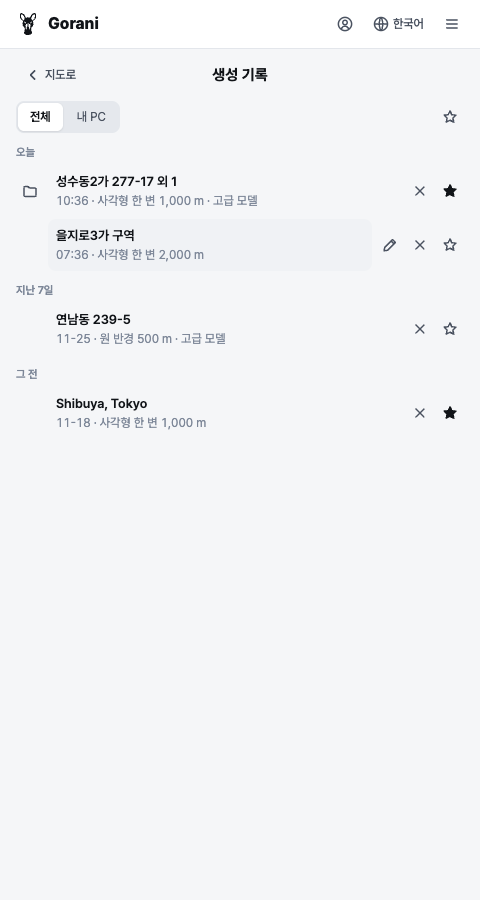
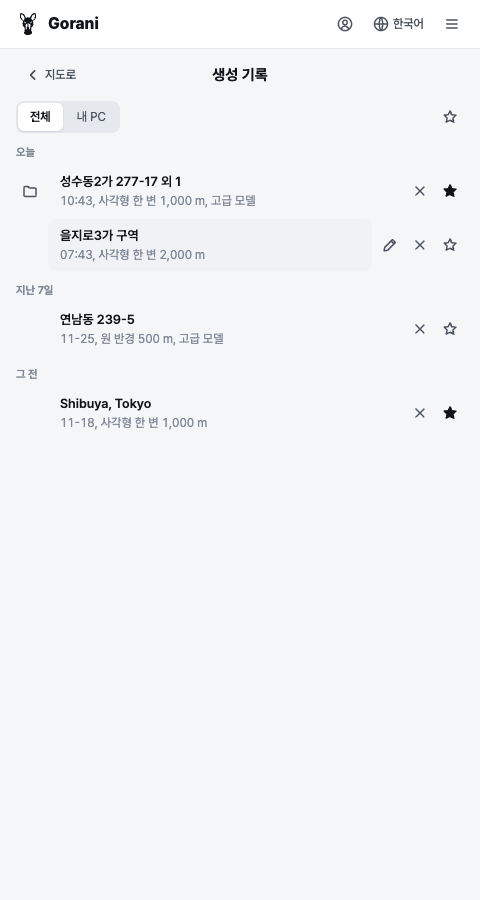
생성 기록: 설명 줄 가운뎃점 → 쉼표, 이름 왼쪽 여백 12 px(마우스 올림 회색 박스) · 지도 트레이 머리 '최근 기록', 링크 '생성 기록 ›'(머리 글씨와 같은 크기·색)

diff --git a/scripts/site_ui.html b/scripts/site_ui.html
@@ -211,7 +211,7 @@ body[data-screen="history"] section[data-screen="history"] { display: block; ove
 .hist-filters { display: flex; justify-content: space-between; align-items: center; gap: 4px; }   /* [전체 | 내 PC] 왼쪽, ★ 오른쪽 — 줄의 별과 한 세로줄 */
 .hist-star-filter[aria-pressed="true"] { color: var(--ink); background: var(--press); }
 .hist-star-filter[aria-pressed="true"] .ico { fill: currentColor; }
-.hist-open { display: block; width: 100%; min-height: 52px; padding: 6px 8px; border: 0; border-radius: 8px; background: none; text-align: left; color: var(--ink); }
+.hist-open { display: block; width: 100%; min-height: 52px; padding: 6px 8px 6px 12px; border: 0; border-radius: 8px; background: none; text-align: left; color: var(--ink); }
 .hist-open:hover:not(:disabled) { background: var(--hover); }
 .hist-open .txt { display: grid; min-width: 0; }
 .hist-open .name, .hist-open .sub { overflow: hidden; text-overflow: ellipsis; white-space: nowrap; }
@@ -224,7 +224,8 @@ body[data-screen="history"] section[data-screen="history"] { display: block; ove
 #hist_menu[hidden] { display: none; }
 #hist_menu button { display: flex; align-items: center; gap: 8px; width: 100%; height: 32px; padding: 0 10px; border: 0; border-radius: 6px; background: none; color: var(--ink); text-align: left; }
 #hist_menu button:hover, #hist_menu button:focus-visible { background: var(--hover); }
-.tray-h .hist-link { margin-left: auto; height: 20px; padding: 0 2px; border: 0; background: none; color: var(--accent-ink); font: inherit; font-weight: 600; display: inline-flex; align-items: center; gap: 2px; }
+.tray-h .hist-link { margin-left: auto; height: 20px; padding: 0 2px; border: 0; background: none; color: inherit; font: inherit; display: inline-flex; align-items: center; gap: 2px; }   /* 머리 글씨와 같은 크기·색(파란 링크가 튀었다 — 2026-11-27 사용자) */
+.tray-h .hist-link:hover { color: var(--ink); }
 .tray-h .hist-link .ico { width: 12px; height: 12px; }
 #acct_pop .pop-link { display: flex; align-items: center; gap: 8px; width: 100%; height: 40px; padding: 0 12px; border: 0; border-top: 1px solid var(--line); background: none; color: var(--ink); text-align: left; }
 #acct_pop .pop-link:hover { background: var(--hover); }
@@ -2795,7 +2796,7 @@ HIST = {
     if (this.at && !this.ok) return null;
     var items = (this.items || []).slice(0, 3), now = new Date(), today = new Date(now.getFullYear(), now.getMonth(), now.getDate()).getTime(), self = this;
     if (this.items && !items.length) return null;
-    var head = '<div class="tray-h">' + ico("clock") + tr("생성 기록") + '<button type="button" class="hist-link" data-act="hist_open">' + tr("전체 기록") + ico("next") + "</button></div>";
+    var head = '<div class="tray-h">' + ico("clock") + tr("최근 기록") + '<button type="button" class="hist-link" data-act="hist_open">' + tr("생성 기록") + ico("next") + "</button></div>";
     return head + (this.items === null ? '<div class="hint">' + tr("불러오는 중") + "</div>" : '<div class="mlist">' + items.map(function (it) { return self.trayRowHtml(it); }).join("") + "</div>");
   },
   trayRowHtml: function (it) {   // 지도 트레이 한 줄 — 최근 결과 줄(recentHtml)과 같은 꼴: 방식 아이콘·이름·만든 시각, 오른쪽 X만. 누르면 지도에 다시 고른다
@@ -2830,7 +2831,7 @@ HIST = {
   rowHtml: function (it, today) {
     var t = new Date(+it.built_at || 0), two = function (n) { return (n < 10 ? "0" : "") + n; };
     var when = t.getTime() >= today ? two(t.getHours()) + ":" + two(t.getMinutes()) : two(t.getMonth() + 1) + "-" + two(t.getDate());
-    var sub = [when, +it.radius > 0 ? rangeLabel({ shape: it.shape, radius: +it.radius }) : "", it.detail === "advanced" ? tr("고급 모델") : ""].filter(Boolean).join(" · ");
+    var sub = [when, +it.radius > 0 ? rangeLabel({ shape: it.shape, radius: +it.radius }) : "", it.detail === "advanced" ? tr("고급 모델") : ""].filter(Boolean).join(", ");   // 쉼표 — 최근 결과 줄·3D 설정 요약과 같게(2026-11-27 사용자, 가운뎃점 뺌)
     var id = esc(it.id), name = it.label || "–", lock = state.run === "running" ? " disabled" : "";
     var btn = function (act, icon, label, extra) { return '<button type="button" class="ib sm" data-act="' + act + '" data-id="' + id + '" aria-label="' + esc(label + ": " + name) + '" title="' + esc(label) + '"' + lock + (extra || "") + ">" + ico(icon) + "</button>"; };
     // 왼쪽 = 폴더(이 PC에 결과가 있는 기록만 — 누르면 결과 화면), 오른쪽 = 연필(이름 바꾸기, 마우스 올림 — gorani.site/account와 같게) · X(기록에서 빼기) · 별(맨 오른쪽 — 위 ★ 필터와 한 줄) — 2026-11-27 사용자

diff --git a/docs/account_plan.md b/docs/account_plan.md
@@ -207,7 +207,7 @@
 
 ## 생성 기록 — 회원만, 아이디 하나에 통합 (2026-11-14~15 사용자)
 
-- **회원 기능이다.** 손님에게는 생성 기록 화면이 없다(자물쇠로 보이지도 않는다). 지도 트레이 '최근 결과' 5줄(`context_builder.get_recent_results`·`open_result`·`hide_result`)은 손님만 — 회원은 그 자리에 '생성 기록' 위 3개와 `전체 기록 ›`(2026-11-27 사용자, 기록을 못 받았거나 아직 없으면 최근 결과).
+- **회원 기능이다.** 손님에게는 생성 기록 화면이 없다(자물쇠로 보이지도 않는다). 지도 트레이 '최근 결과' 5줄(`context_builder.get_recent_results`·`open_result`·`hide_result`)은 손님만 — 회원은 그 자리에 '최근 기록'(생성 기록 위 3개)과 `생성 기록 ›`(2026-11-27 사용자, 기록을 못 받았거나 아직 없으면 최근 결과).
 - **아이디 하나에 통합한다.** 회원이 어느 PC에서 만들든 기록은 그 계정 하나로 모인다. 화면에는 PC를 나누는 표시·필터가 없고, 어느 PC에서 만들었는지는 남기지 않는다.
 - **끄는 설정이 없다(2026-11-19 사용자).** 회원이 만든 결과는 늘 계정에 남는다(로그인한 뒤 만든 것부터). 지우기(하나·모두)는 웹 계정 페이지와 패널 오른쪽 클릭 메뉴에서, 탈퇴하면 모두 지운다. 무엇을 남기는지는 처리방침에 적는다(생성 기록 = 회원 기능 — 계약 이행 근거로 본다, 확인 필요). 사무소 프로젝트 위치가 남는 것이 싫은 회원은 지우거나 탈퇴한다.
 - 기능 키는 그대로 `history_sync`(이용권 `free`에 든다).
@@ -219,9 +219,9 @@
 - **어디에 — 서버 없이 Firebase Realtime Database**(2026-11-19 사용자 — '저장하되 서버는 만들지 않는다'). 같은 무료 프로젝트(Spark: 저장 1 GB·내려받기 월 10 GB·동시 연결 100 — [요금](https://firebase.google.com/pricing)), 위치 `asia-southeast1`(싱가포르 — 가장 가까움). 플러그인·웹이 토큰을 붙여 REST로 바로 읽고 쓴다(`<db>/users/<uid>/history/<entry_id>.json?auth=<토큰>`, 표준 라이브러리 `urllib`). 보안 규칙이 본인 기록만 읽고 쓰게 한다(아래 '구성'). 1 KB × 300개 × 3,000명 ≈ 1 GB라 그 전에 `HISTORY_MAX`를 줄이거나 옮긴다.
 
 **패널 '생성 기록' 화면**(회원만 — 지도·결과 다음 세 번째 화면)
-- 들어가는 곳: 머리줄 계정 기호 → '생성 기록', 지도 트레이 '생성 기록' 머리 오른쪽 `전체 기록 ›`.
+- 들어가는 곳: 머리줄 계정 기호 → '생성 기록', 지도 트레이 '최근 기록' 머리 오른쪽 `생성 기록 ›`.
 - 위: 왼쪽 범위 `[전체 | 내 PC]`(내 PC = 이 PC에 결과 폴더가 있는 기록), 오른쪽 따로 켜고 끄는 ★(두 범위 어디서나 즐겨찾기만, 줄의 별과 한 세로줄 — 2026-11-27 사용자). 이름 찾기 없음(2026-11-15). 목록은 날짜 묶음(오늘·지난 7일·그 전).
-- 한 줄: 왼쪽 폴더(이 PC에 결과 폴더가 있는 기록만 — 누르면 결과 화면, 대상지 썸네일은 없앴다), 이름, `시각 · 범위 · 고급 모델`(기본이면 없음), 오른쪽 연필(이름 바꾸기 — 마우스를 올렸을 때만, gorani.site/account와 같은 모양) · X(기록에서 빼기, 확인 창) · ☆/★(맨 오른쪽)(2026-11-27 사용자). PC 이름·배지는 쓰지 않는다. 지도 트레이 위 3개는 최근 결과 줄 꼴에 X만.
+- 한 줄: 왼쪽 폴더(이 PC에 결과 폴더가 있는 기록만 — 누르면 결과 화면, 대상지 썸네일은 없앴다), 이름, `시각, 범위, 고급 모델`(기본이면 없음), 오른쪽 연필(이름 바꾸기 — 마우스를 올렸을 때만, gorani.site/account와 같은 모양) · X(기록에서 빼기, 확인 창) · ☆/★(맨 오른쪽)(2026-11-27 사용자). PC 이름·배지는 쓰지 않는다. 지도 트레이 위 3개는 최근 결과 줄 꼴에 X만.
 - 줄을 누르면: 늘 같은 대상지·설정으로 지도에 되살린다(`restoreResultTarget`과 같은 길 — 사용자는 [3D 모델 만들기]만 누르면 된다. 지금 데이터 판으로 만든다). 이 PC의 결과 화면은 폴더 아이콘으로(`entry_id`로 찾는다) — 2026-11-27 사용자: 같은 줄이 어떤 건 결과, 어떤 건 지도로 가 예측이 안 됐다.
 - 이름 바꾸기·기록에서 빼기(계정 기록 지우기)는 줄의 연필·X와 오른쪽 클릭 메뉴. 지우기는 확인 창(되돌릴 수 없다). 결과 폴더는 지우지 않는다(이전 결과는 지우지 않는다는 원칙).
 
